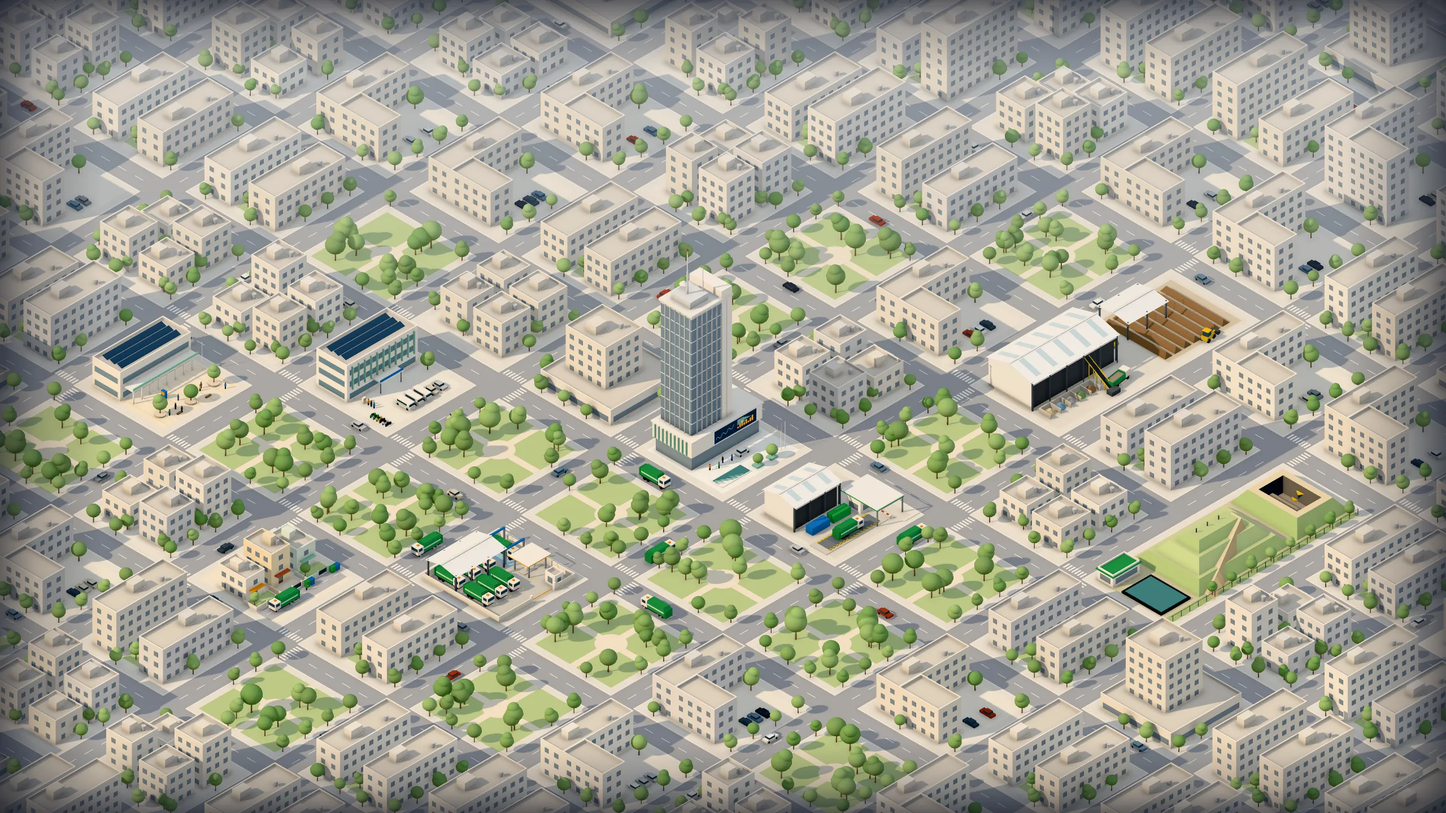
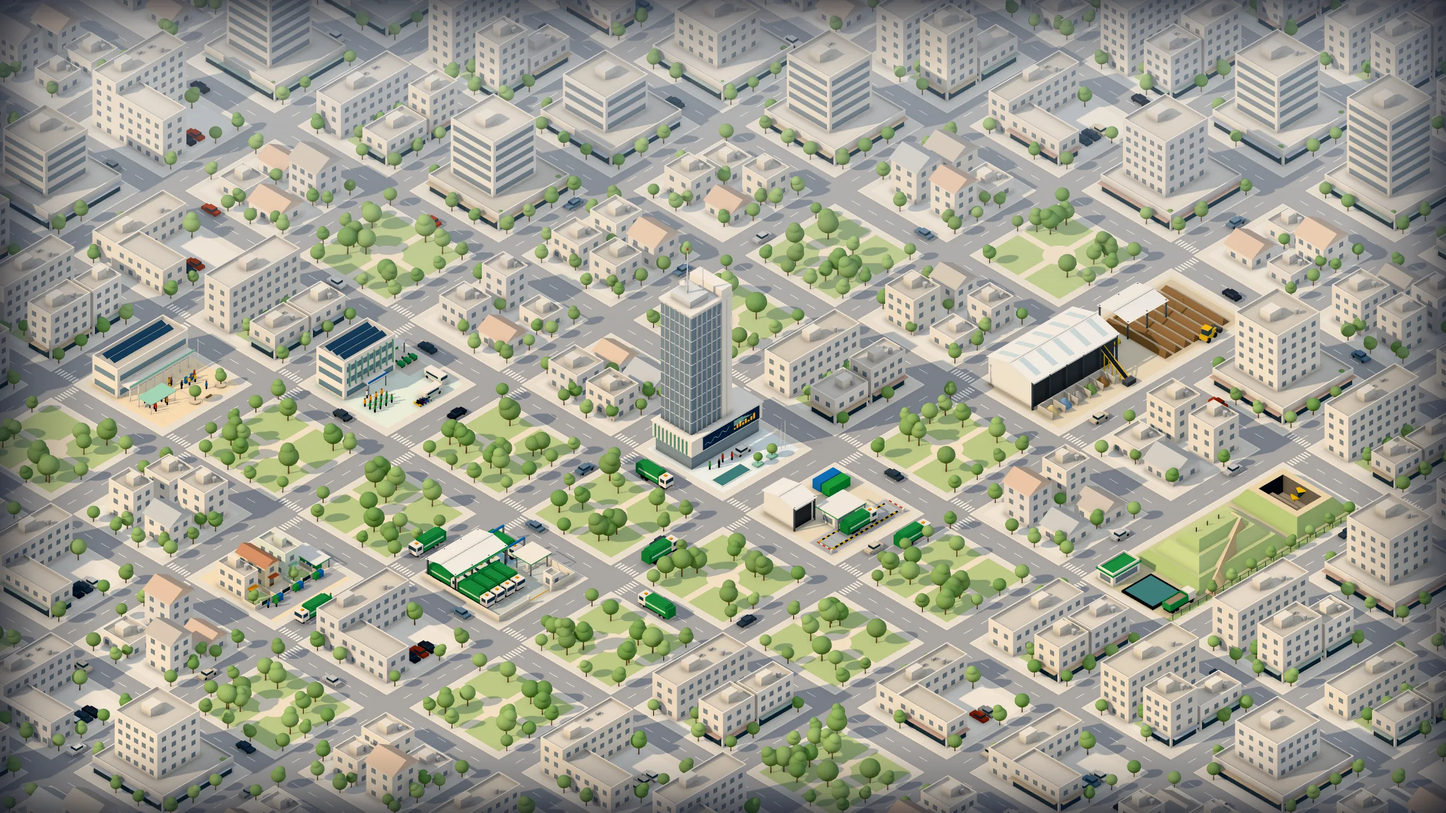
Scene 04: v3 city artwork; phone overview chip clear of pins
- v3 artwork (same approved composition, 16:9 desktop + 1:1 phone):
  clearer facilities (wheelie bins at the collection lane, crew yard at
  resources, long marked weighbridge deck with barriers, larger sorting
  bays, landfill access road with a tipper, grievance helpdesk) and less
  repetitive surroundings. Images and cityData.ts regenerated together
  from tools/static-city/v3/city.json; anchors moved < 1%.
- Phones: "Return to overview" moves to the bottom-left corner; at the top
  it covered the Grievances pin. Test added for every selection.

diff --git a/components/ecosystem/cityData.ts b/components/ecosystem/cityData.ts
@@ -1,6 +1,6 @@
 /**
  * Scene 04 static city — zone geometry for the pre-rendered city images in public/scene04/.
- * GENERATED from the render tool output (tools/static-city/city.json, v2 artwork); do not edit by
+ * GENERATED from the render tool output (tools/static-city/v3/city.json, v3 artwork); do not edit by
  * hand — regenerate together with the images. All coordinates are PERCENT of the image (x of its
  * width, y of its height): `anchor` = pin position, `footprint` = ground polygon highlighted on
  * selection, `box` = [left, top, right, bottom] bounding box of the zone (building included).
@@ -26,84 +26,84 @@ export const CITY_DESKTOP: CityComposition = {
   height: 1080,
   nodes: {
     collection: {
-      anchor: [18.45, 66.16],
+      anchor: [17.82, 66.51],
       footprint: [
-        [13.75, 71.23],
-        [19.01, 65.82],
-        [24.28, 71.23],
-        [19.01, 76.63],
+        [13.75, 71.13],
+        [19.01, 65.72],
+        [24.28, 71.13],
+        [19.01, 76.54],
       ],
-      box: [13.75, 62.66, 24.28, 76.71],
+      box: [13.75, 62.46, 24.28, 76.62],
     },
     logistics: {
-      anchor: [32.34, 67.57],
+      anchor: [32.14, 67.67],
       footprint: [
-        [29.24, 71.23],
-        [34.51, 65.82],
-        [39.77, 71.23],
-        [34.51, 76.63],
+        [29.24, 71.13],
+        [34.51, 65.72],
+        [39.77, 71.13],
+        [34.51, 76.54],
       ],
-      box: [29.24, 64.99, 39.77, 76.71],
+      box: [29.24, 64.75, 39.77, 76.62],
     },
     resources: {
-      anchor: [25.39, 41.35],
+      anchor: [24.61, 41.79],
       footprint: [
-        [21.49, 47.38],
-        [26.76, 41.97],
-        [32.03, 47.38],
-        [26.76, 52.78],
+        [21.49, 47.28],
+        [26.76, 41.87],
+        [32.03, 47.28],
+        [26.76, 52.68],
       ],
-      box: [21.49, 37.75, 32.03, 52.86],
+      box: [21.49, 38.99, 32.03, 52.76],
     },
     weighbridge: {
-      anchor: [58.71, 63.91],
+      anchor: [59.37, 63.26],
       footprint: [
-        [52.48, 63.28],
-        [57.75, 57.87],
-        [63.01, 63.28],
-        [57.75, 68.68],
+        [52.48, 63.18],
+        [57.75, 57.77],
+        [63.01, 63.18],
+        [57.75, 68.58],
       ],
-      box: [52.48, 57.95, 63.01, 68.76],
+      box: [52.48, 57.85, 63.01, 68.66],
     },
     processing: {
-      anchor: [72.81, 41.41],
+      anchor: [72.81, 41.31],
       footprint: [
-        [67.97, 47.38],
-        [76.88, 38.23],
-        [82.15, 43.64],
-        [73.24, 52.78],
+        [67.97, 47.28],
+        [76.88, 38.13],
+        [82.15, 43.54],
+        [73.24, 52.68],
       ],
-      box: [67.97, 36.84, 82.15, 52.86],
+      box: [67.97, 36.74, 82.15, 52.76],
     },
     landfill: {
-      anchor: [83.82, 64.48],
+      anchor: [83.82, 64.38],
       footprint: [
-        [75.72, 71.23],
-        [88.73, 57.87],
-        [94, 63.28],
-        [80.99, 76.63],
+        [75.72, 71.13],
+        [88.73, 57.77],
+        [94, 63.18],
+        [80.99, 76.54],
       ],
-      box: [75.72, 57.95, 94, 76.71],
+      box: [75.72, 57.85, 94, 76.62],
     },
     grievance: {
-      anchor: [9.8, 42.21],
+      anchor: [9.7, 41.95],
       footprint: [
-        [6, 47.38],
-        [11.27, 41.97],
-        [16.54, 47.38],
-        [11.27, 52.78],
+        [6, 47.28],
+        [11.27, 41.87],
+        [16.54, 47.28],
+        [11.27, 52.68],
       ],
-      box: [6, 38.79, 16.54, 52.86],
+      box: [6, 38.63, 16.54, 52.76],
     },
     iccc: {
-      anchor: [48.12, 35.43],
+      anchor: [48.12, 35.33],
       footprint: [
-        [44.73, 55.33],
-        [50, 49.92],
-        [55.27, 55.33],
-        [50, 60.73],
+        [44.73, 55.23],
+        [50, 49.82],
+        [55.27, 55.23],
+        [50, 60.63],
       ],
-      box: [44.73, 32.94, 55.27, 60.81],
+      box: [44.73, 32.85, 55.27, 60.71],
     },
   },
 };
@@ -114,84 +114,84 @@ export const CITY_MOBILE: CityComposition = {
   height: 1080,
   nodes: {
     collection: {
-      anchor: [11.12, 44.71],
+      anchor: [10.17, 44.78],
       footprint: [
-        [6, 44.65],
-        [15.1, 43.49],
-        [16.54, 50.85],
-        [7.44, 52.02],
+        [6, 44.73],
+        [15.1, 43.57],
+        [16.54, 50.93],
+        [7.44, 52.1],
       ],
-      box: [6, 42.88, 16.54, 52.05],
+      box: [6, 42.82, 16.54, 52.14],
     },
     logistics: {
-      anchor: [25.17, 53.53],
+      anchor: [24.83, 53.65],
       footprint: [
-        [21.51, 53.77],
-        [30.61, 52.6],
-        [32.05, 59.96],
-        [22.95, 61.13],
+        [21.51, 53.85],
+        [30.61, 52.68],
+        [32.05, 60.05],
+        [22.95, 61.21],
       ],
-      box: [21.51, 51.81, 32.05, 61.17],
+      box: [21.51, 51.85, 32.05, 61.25],
     },
     resources: {
-      anchor: [35.55, 29.26],
+      anchor: [34.35, 29.33],
       footprint: [
-        [30.65, 30.39],
-        [39.75, 29.23],
-        [41.19, 36.59],
-        [32.09, 37.76],
+        [30.65, 30.48],
+        [39.75, 29.31],
+        [41.19, 36.67],
+        [32.09, 37.84],
       ],
-      box: [30.65, 27.23, 41.19, 37.8],
+      box: [30.65, 27.58, 41.19, 37.88],
     },
     weighbridge: {
-      anchor: [55.06, 65.79],
+      anchor: [56.11, 65.82],
       footprint: [
-        [50.4, 61.16],
-        [59.5, 60],
-        [60.94, 67.36],
-        [51.84, 68.53],
+        [50.4, 61.25],
+        [59.5, 60.08],
+        [60.94, 67.44],
+        [51.84, 68.61],
       ],
-      box: [50.4, 60.04, 60.94, 68.57],
+      box: [50.4, 60.12, 60.94, 68.65],
     },
     processing: {
-      anchor: [83, 57.19],
+      anchor: [83, 57.28],
       footprint: [
-        [77.17, 57.73],
-        [92.56, 55.76],
-        [94, 63.12],
-        [78.61, 65.1],
+        [77.17, 57.82],
+        [92.56, 55.84],
+        [94, 63.21],
+        [78.61, 65.18],
       ],
-      box: [77.17, 54.38, 94, 65.14],
+      box: [77.17, 54.47, 94, 65.22],
     },
     landfill: {
-      anchor: [78.55, 81.51],
+      anchor: [78.55, 81.59],
       footprint: [
-        [68.02, 81.11],
-        [90.51, 78.22],
-        [91.95, 85.59],
-        [69.46, 88.47],
+        [68.02, 81.19],
+        [90.51, 78.31],
+        [91.95, 85.67],
+        [69.46, 88.55],
       ],
-      box: [68.02, 77.6, 91.95, 88.51],
+      box: [68.02, 77.68, 91.95, 88.59],
     },
     grievance: {
-      anchor: [20.01, 20.49],
+      anchor: [19.99, 20.41],
       footprint: [
-        [15.15, 21.28],
-        [24.25, 20.11],
-        [25.69, 27.48],
-        [16.59, 28.64],
+        [15.15, 21.36],
+        [24.25, 20.2],
+        [25.69, 27.56],
+        [16.59, 28.73],
       ],
-      box: [15.15, 18.63, 25.69, 28.68],
+      box: [15.15, 18.69, 25.69, 28.76],
     },
     iccc: {
-      anchor: [52.02, 42.22],
+      anchor: [52.02, 42.3],
       footprint: [
-        [48.28, 50.34],
-        [57.38, 49.17],
-        [58.82, 56.53],
-        [49.72, 57.7],
+        [48.28, 50.42],
+        [57.38, 49.25],
+        [58.82, 56.61],
+        [49.72, 57.78],
       ],
-      box: [48.28, 40.43, 58.82, 57.74],
+      box: [48.28, 40.51, 58.82, 57.82],
     },
   },
 };

diff --git a/tests/ecosystem.spec.ts b/tests/ecosystem.spec.ts
@@ -658,6 +658,27 @@ test.describe('Scene 04 ecosystem', () => {
       await expect(
         page.locator('.eco__pin[data-id="landfill"] .eco__pin-label'),
       ).toBeVisible();
+      // The "Return to overview" chip never sits on a pin badge, whichever module is selected.
+      for (const id of ECOSYSTEM_NODES.map((n) => n.id)) {
+        await page.locator(`#eco-tab-${id}`).dispatchEvent('click');
+        const under = await page.evaluate(() => {
+          const chip = document
+            .querySelector('#ecosystem .eco__overview-btn')!
+            .getBoundingClientRect();
+          return [...document.querySelectorAll<HTMLElement>('.eco__pin')]
+            .filter((p) => {
+              const b = p.querySelector('.eco__pin-badge')!.getBoundingClientRect();
+              return (
+                b.left < chip.right &&
+                b.right > chip.left &&
+                b.top < chip.bottom &&
+                b.bottom > chip.top
+              );
+            })
+            .map((p) => p.dataset.id);
+        });
+        expect(under, id).toEqual([]);
+      }
       expect(errors).toEqual([]);
     });
   });

diff --git a/components/ecosystem/ecosystem.css b/components/ecosystem/ecosystem.css
@@ -802,9 +802,12 @@
     bottom: 12px;
     font-size: 0.7rem;
   }
+  /* Phones: bottom-left, the one corner of the square composition free of pins (the overview
+     hint that also sits there is only shown when nothing is selected). */
   .eco__city .eco__overview-btn {
     left: 12px;
-    top: 12px;
+    top: auto;
+    bottom: 12px;
     min-height: 44px;
   }
   .eco[data-enhanced='true'] .eco__summary,
